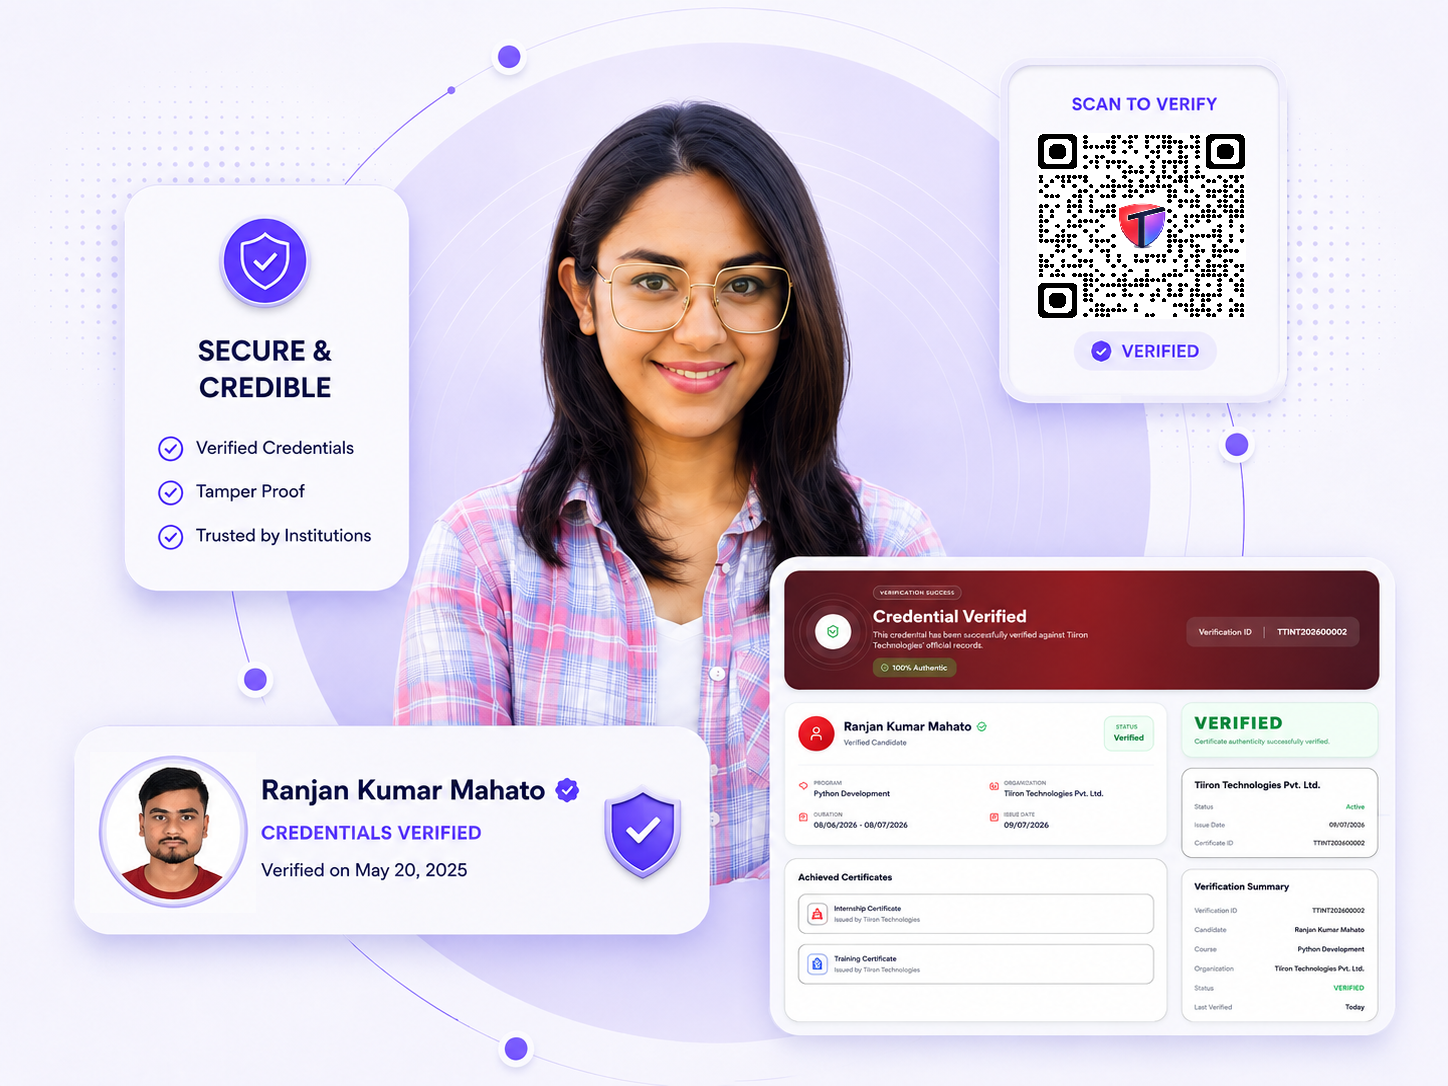
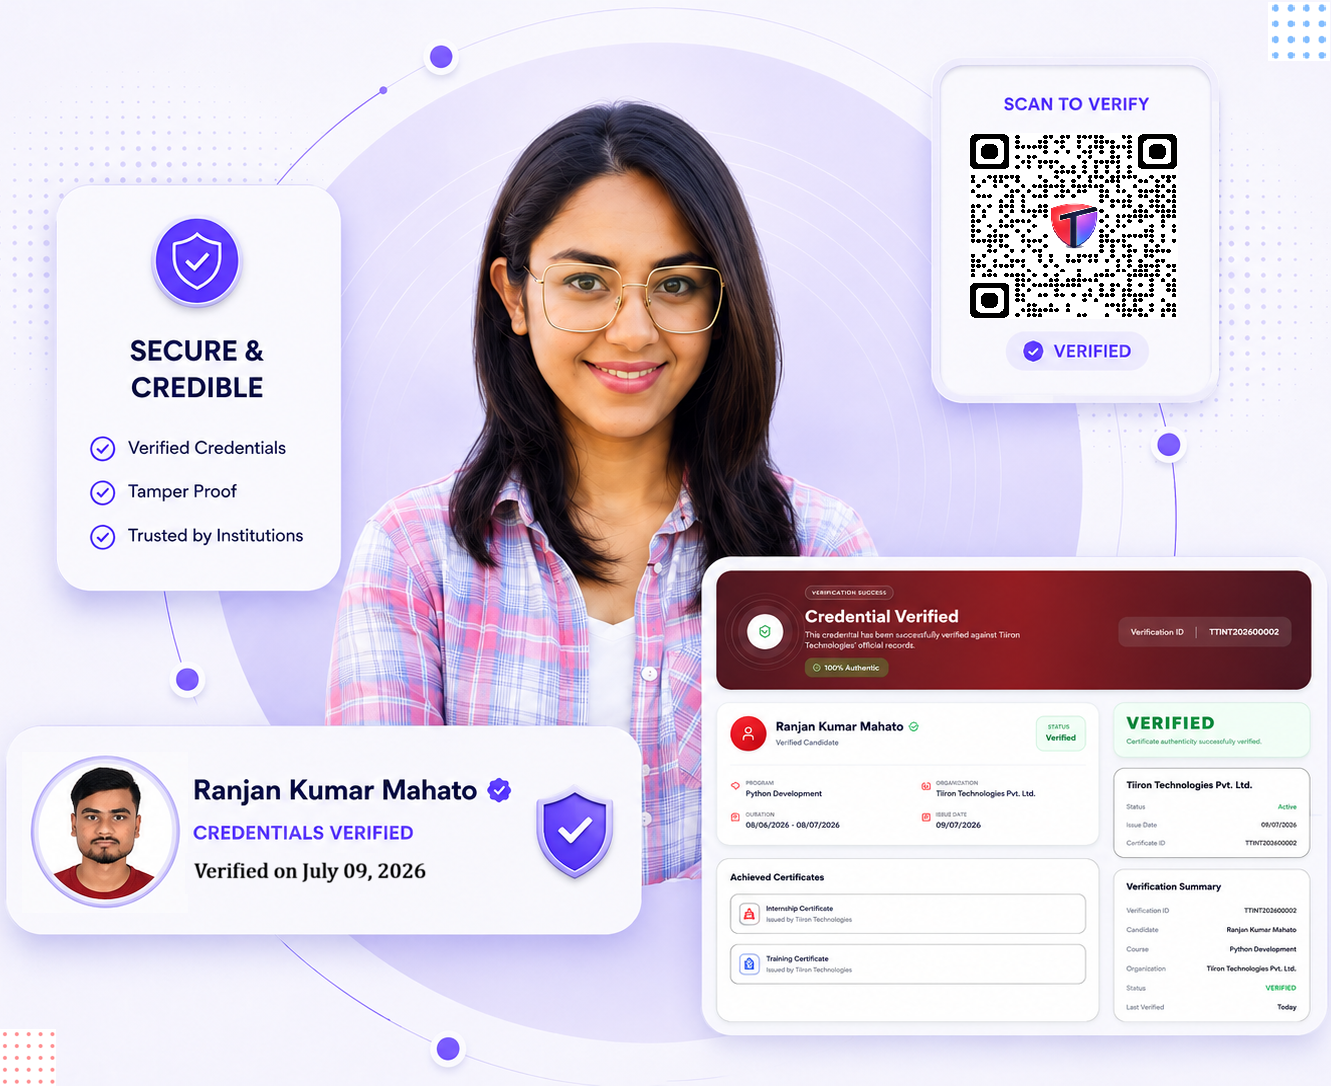
Modified The Hero Section

diff --git a/src/features/landing/components/HeroSection.tsx b/src/features/landing/components/HeroSection.tsx
@@ -25,7 +25,7 @@ export default function HeroSection() {
       <div className="absolute left-1/2 top-0 h-[380px] w-[380px] -translate-x-1/2 rounded-full bg-red-50 blur-[120px]" />
       <div className="absolute right-0 top-24 h-[420px] w-[420px] rounded-full bg-blue-50 blur-[140px]" />
 
-      <div className="relative mx-auto max-w-[1650px] px-6 lg:px-8 pt-14 pb-20">
+      <div className="relative mx-auto max-w-[1650px] px-6 lg:px-8 pt-14 pb-12 md:pb-20">
         <div className="grid gap-16 lg:grid-cols-[1.02fr_0.98fr] items-center">
           <div className="max-w-3xl">
             <div className="inline-flex items-center gap-3 rounded-full border border-red-100 bg-red-50 px-4 py-2 text-sm font-semibold text-red-600 shadow-sm">
@@ -42,38 +42,40 @@ export default function HeroSection() {
             </h1>
 
             <p className="mt-6 max-w-2xl text-lg leading-8 text-slate-600 sm:text-xl">
-              Verify internship certificates, training credentials, employee records and academic achievements with enterprise-grade security. Trusted by institutions, recruiters and organizations worldwide.
+              Verify internship certificates, training credentials, employee
+              records and academic achievements with enterprise-grade security.
+              Trusted by institutions, recruiters and organizations worldwide.
             </p>
 
             <div className="mt-12">
               <form
-  onSubmit={(e) => {
-    e.preventDefault();
-    handleVerify();
-  }}
-  className="rounded-[32px] border border-slate-200 bg-white p-3 shadow-[0_40px_120px_-80px_rgba(15,23,42,0.15)]"
->
-  <div className="flex flex-col gap-3 md:flex-row">
+                onSubmit={(e) => {
+                  e.preventDefault();
+                  handleVerify();
+                }}
+                className="rounded-[32px] border border-slate-200 bg-white p-3 shadow-[0_40px_120px_-80px_rgba(15,23,42,0.15)]"
+              >
+                <div className="flex flex-col gap-3 md:flex-row">
                   <div className="flex min-w-0 flex-1 items-center gap-4 rounded-2xl bg-slate-50 px-5 py-4">
                     <Search size={24} className="text-slate-400" />
                     <input
                       type="text"
                       value={credentialId}
                       onChange={(e) => setCredentialId(e.target.value)}
-                    placeholder="Enter your Verification ID (e.g. TTINT202600000)"
+                      placeholder="Enter your Verification ID (e.g. TTINT202600000)"
                       className="min-w-0 flex-1 bg-transparent text-base text-slate-900 outline-none placeholder:text-slate-400"
                     />
                   </div>
 
                   <button
-  type="submit"
-  className="inline-flex h-16 w-full items-center justify-center gap-3 rounded-2xl bg-red-600 px-8 text-base font-semibold text-white transition hover:bg-red-700 hover:shadow-xl md:w-auto"
->
+                    type="submit"
+                    className="inline-flex h-16 w-full items-center justify-center gap-3 rounded-2xl bg-red-600 px-8 text-base font-semibold text-white transition hover:bg-red-700 hover:shadow-xl md:w-auto"
+                  >
                     Verify
                     <ChevronRight size={20} />
                   </button>
                 </div>
-</form>
+              </form>
             </div>
 
             <div className="mt-10 grid gap-4 sm:grid-cols-3">
@@ -97,12 +99,19 @@ export default function HeroSection() {
                   style: "bg-red-50",
                 },
               ].map((item) => (
-                <div key={item.title} className="flex items-center gap-4 rounded-3xl border border-slate-200 bg-white p-5 shadow-sm transition hover:-translate-y-0.5 hover:shadow-xl">
-                  <div className={`flex h-14 w-14 shrink-0 items-center justify-center rounded-2xl ${item.style}`}>
+                <div
+                  key={item.title}
+                  className="flex items-center gap-4 rounded-3xl border border-slate-200 bg-white p-5 shadow-sm transition hover:-translate-y-0.5 hover:shadow-xl"
+                >
+                  <div
+                    className={`flex h-14 w-14 shrink-0 items-center justify-center rounded-2xl ${item.style}`}
+                  >
                     {item.icon}
                   </div>
                   <div>
-                    <h4 className="text-base font-semibold text-slate-900">{item.title}</h4>
+                    <h4 className="text-base font-semibold text-slate-900">
+                      {item.title}
+                    </h4>
                     <p className="mt-1 text-sm text-slate-500">{item.desc}</p>
                   </div>
                 </div>
@@ -111,13 +120,12 @@ export default function HeroSection() {
           </div>
 
           <div className="relative flex justify-center lg:justify-end">
-            <div className="relative w-full max-w-[720px] overflow-hidden rounded-[40px] border border-slate-200 bg-white p-6 shadow-[0_30px_80px_-40px_rgba(15,23,42,0.25)]">
+            <div className="relative w-full max-w-[720px] overflow-hidden pl-4 pr-4 pt-5 pb-2">
               <HeroIllustration />
             </div>
           </div>
         </div>
       </div>
     </section>
-
   );
 }

diff --git a/src/features/landing/components/HeroIllustration.tsx b/src/features/landing/components/HeroIllustration.tsx
@@ -1,96 +1,34 @@
-import heroImage from "../../../assets/VERIFY_HERO_IMAGE-Photoroom.png";
+import heroImage from "../../../assets/VERIFY_HERO_IMAGE.png";
 
 export default function HeroIllustration() {
   return (
     <div className="relative flex items-center justify-center w-full">
-
       {/* Soft Background Glow */}
 
       <div className="absolute inset-0 flex items-center justify-center -z-10">
-
         <div className="w-[620px] h-[620px] rounded-full bg-blue-100/40 blur-[120px]" />
-
-      </div>
-
-      {/* Top Left Blue Dots */}
-
-      <div className="absolute top-6 left-4 hidden lg:block opacity-70">
-
-        <div className="grid grid-cols-4 gap-2">
-
-          {Array.from({ length: 16 }).map((_, index) => (
-            <span
-              key={index}
-              className="w-1.5 h-1.5 rounded-full bg-blue-400"
-            />
-          ))}
-
-        </div>
-
-      </div>
-
-      {/* Top Right Grey Dots */}
-
-      <div className="absolute -top-2 right-16 hidden xl:block opacity-30">
-
-        <div className="grid grid-cols-5 gap-2">
-
-          {Array.from({ length: 25 }).map((_, index) => (
-            <span
-              key={index}
-              className="w-1 h-1 rounded-full bg-gray-400"
-            />
-          ))}
-
-        </div>
-
-      </div>
-
-      {/* Bottom Right Red Dots */}
-
-      <div className="absolute bottom-8 right-4 hidden lg:block opacity-70">
-
-        <div className="grid grid-cols-5 gap-2">
-
-          {Array.from({ length: 25 }).map((_, index) => (
-            <span
-              key={index}
-              className="w-1 h-1 rounded-full bg-red-400"
-            />
-          ))}
-
-        </div>
-
       </div>
 
       {/* Main Illustration */}
-<div
-  className="
-  rounded-[40px]
-  bg-white
-  shadow-2xl
-  border
-  border-gray-100
-  p-8
-"
->
-      <img
-        src={heroImage}
-        alt="Credential Verification"
-        className="
+      <div
+      >
+        <img
+          src={heroImage}
+          alt="Credential Verification"
+          className="
           hero-float
-w-[115%]
-max-w-[850px]
-xl:max-w-[950px]
-2xl:max-w-[1000px]
-object-contain
-drop-shadow-2xl
+          w-[100%]
+          max-w-[850px]
+          xl:max-w-[950px]
+          2xl:max-w-[1000px]
+          object-contain
+          drop-shadow-2xl
           select-none
           pointer-events-none
         "
-        draggable={false}
-      />
-</div>
+          draggable={false}
+        />
+      </div>
       {/* Extra Glow Bottom */}
 
       <div className="absolute bottom-10 left-10 w-40 h-40 rounded-full bg-red-100 blur-[90px] -z-10" />
@@ -98,7 +36,6 @@ drop-shadow-2xl
       {/* Extra Glow Top */}
 
       <div className="absolute top-10 right-10 w-44 h-44 rounded-full bg-blue-100 blur-[100px] -z-10" />
-
     </div>
   );
 }
